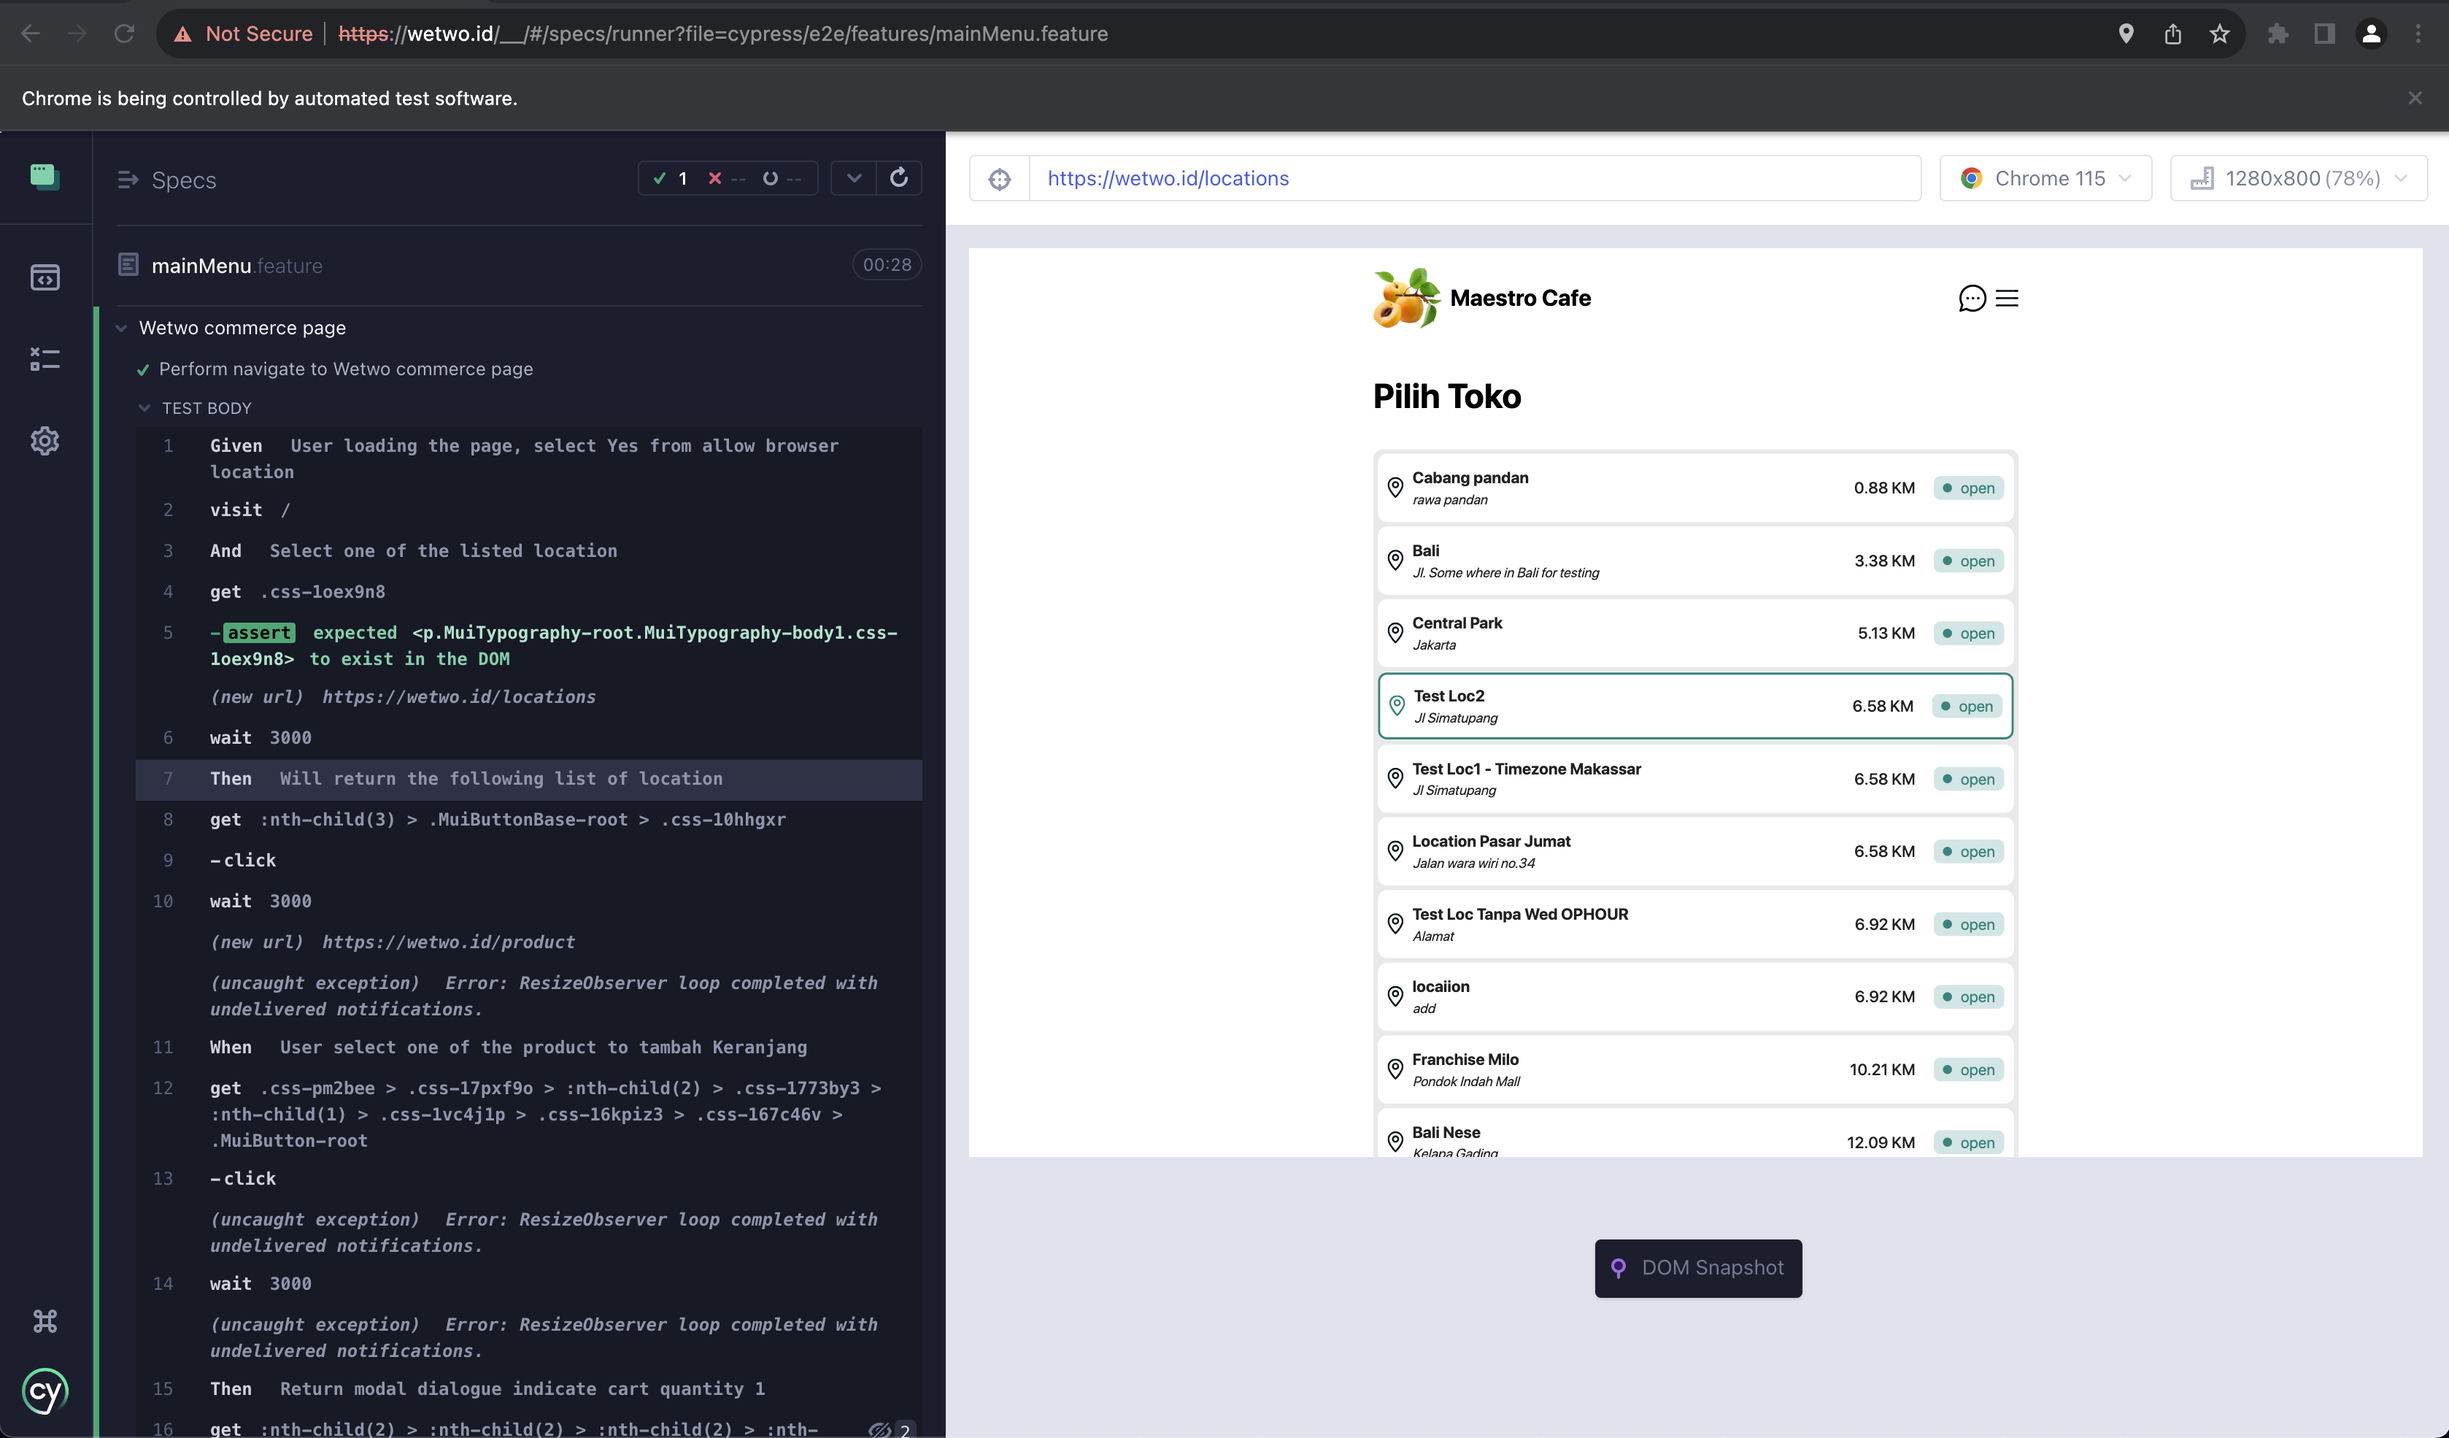
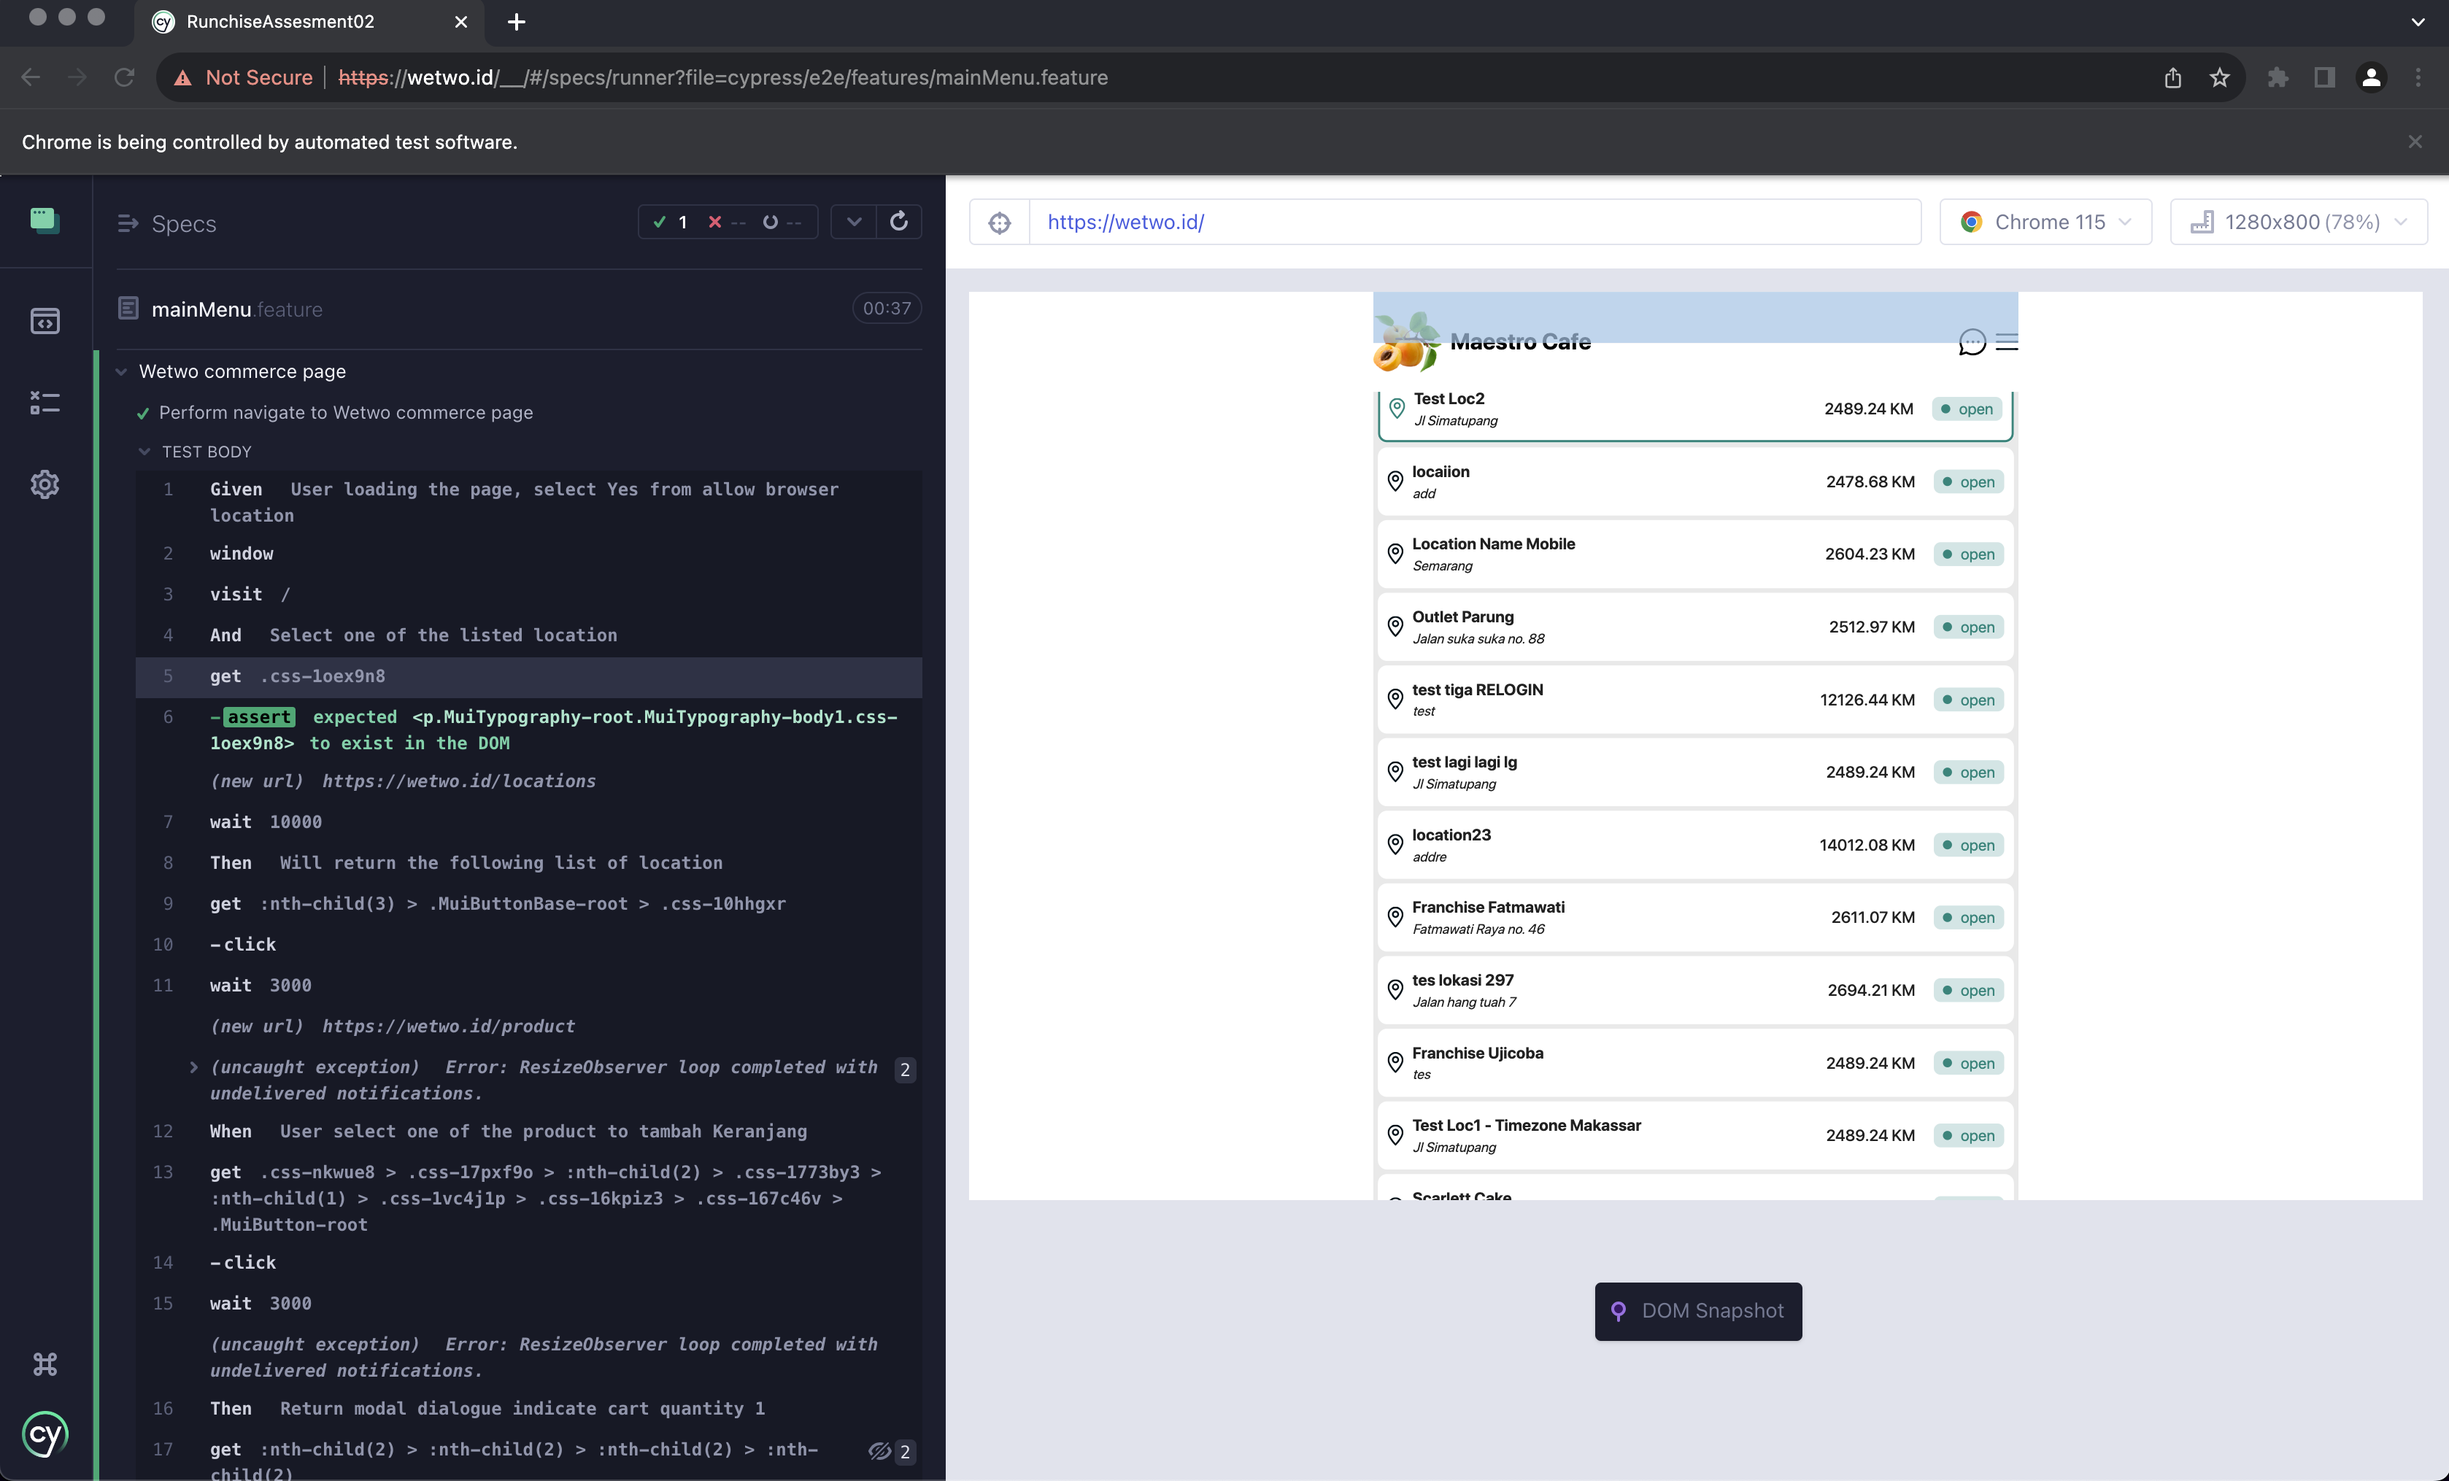
add mock location

diff --git a/cypress/e2e/pages/mainMenu.js b/cypress/e2e/pages/mainMenu.js
@@ -2,13 +2,12 @@ import { faker } from '@faker-js/faker';
 
 const headerExist = '.css-1oex9n8';
 const buttonCP = ':nth-child(3) > .MuiButtonBase-root > .css-10hhgxr';
-const buttonProduct = '.css-pm2bee > .css-17pxf9o > :nth-child(2) > .css-1773by3 > :nth-child(1) > .css-1vc4j1p > .css-16kpiz3 > .css-167c46v > .MuiButton-root';
+const buttonProduct = '.css-nkwue8 > .css-17pxf9o > :nth-child(2) > .css-1773by3 > :nth-child(1) > .css-1vc4j1p > .css-16kpiz3 > .css-167c46v > .MuiButton-root';
 const buttonAdd = ':nth-child(2) > :nth-child(2) > :nth-child(2) > :nth-child(2)';
 const buttonAdd2 = ':nth-child(2) > :nth-child(3) > div';
 const buttonCart = '.css-1xe5izx';
 const countCart = ':nth-child(2) > :nth-child(2) > :nth-child(2)';
 const buttomMin = ':nth-child(1) > .MuiBox-root';
-
 
 class MainMenu {
 
@@ -19,16 +18,20 @@ class MainMenu {
         //     }
         //   });
 
-        cy.visit('/', {
-          onBeforeLoad (win) {
-            // e.g., force CP geolocation
-            const latitude = 6.1774;
-            const longitude = 106.7907;
-            cy.stub(win.navigator.geolocation, 'getCurrentPosition').callsFake((cb) => {
-              return cb({ coords: { latitude, longitude } });
-            });
-          },
-        });
+        // cy.visit('/', {
+        //   onBeforeLoad (win) {
+        //     // e.g., force CP geolocation
+        //     const latitude = 6.1774;
+        //     const longitude = 106.7907;
+        //     cy.stub(win.navigator.geolocation, 'getCurrentPosition').callsFake((cb) => {
+        //       return cb({ coords: { latitude, longitude } });
+        //     });
+        //   },
+        // });
+
+        cy.window().then(win => {
+          cy.visitWithCustomGeoLoc(win, "/", 16.1774, 106.7907);
+        })
           
     }
     
@@ -48,6 +51,7 @@ class MainMenu {
     }
 
     selectProduct(){
+      cy.wait(3000);
       cy.get(buttonProduct).click();
       cy.wait(3000);
       
@@ -66,9 +70,17 @@ class MainMenu {
     }
 
     navCartPage(){
-      cy.get(buttonCart).click();
+      cy.wait(3000);
+      // cy.get(buttonCart).click();
+
+      cy.get(buttonCart).should('be.visible')
+      cy.get(buttonCart, { timeout: 10000 }).eq(0).click({ force: true })
+
+
       cy.wait(3000);
       cy.get(countCart).contains('2');
+
+      
 
     }
 

diff --git a/cypress/support/commands.js b/cypress/support/commands.js
@@ -24,4 +24,5 @@
 // -- This will overwrite an existing command --
 // Cypress.Commands.overwrite('visit', (originalFn, url, options) => { ... })
 
-
+import {registerCommand} from 'cypress-visit-with-custom-geolocation'
+registerCommand();

diff --git a/README.md b/README.md
@@ -1,4 +1,4 @@
-# BDD + Cypress Web Automation
+# RunchiseAssesment02
 
 Previously already completed the assessment as in the following link :
 
@@ -24,7 +24,6 @@ Automation written in Javascript leveraging Cypress, Gherkin, allure as reportin
 ## Prerequisites
 
 - Node.js is installed on your local machine
-- ** In order to successfully run all the scenarios, make sure to create a json file called "cypress.env.json"**. Here's how the file content should look like:
 
 To adjust browser location permission by default, I added these folllowing config :
 
@@ -79,13 +78,22 @@ GUI report
 
 ![npx cypress open](1.png)
 
+
+![npm run headless ](2.png)
+
 ![run completed](completed.png)
 
-![Report](cypress/videos/mainMenu.feature.mp4)
+The following report also available in allure as in run by headless.
+![Report](assetmd/mainMenu.feature.gif)
 
 
 ## Findings
 
 1. There is a slight different behaviour of the following app when run with browser by loading cache or not, so assume each running the script will start as in clear session or storage.
 
-# RunchiseAssesment02
+2. The following workaround that provided to mocking geolocation so able to custom the lat and long value.
+```
+npm i cypress-visit-with-custom-geolocation
+```
+
+
